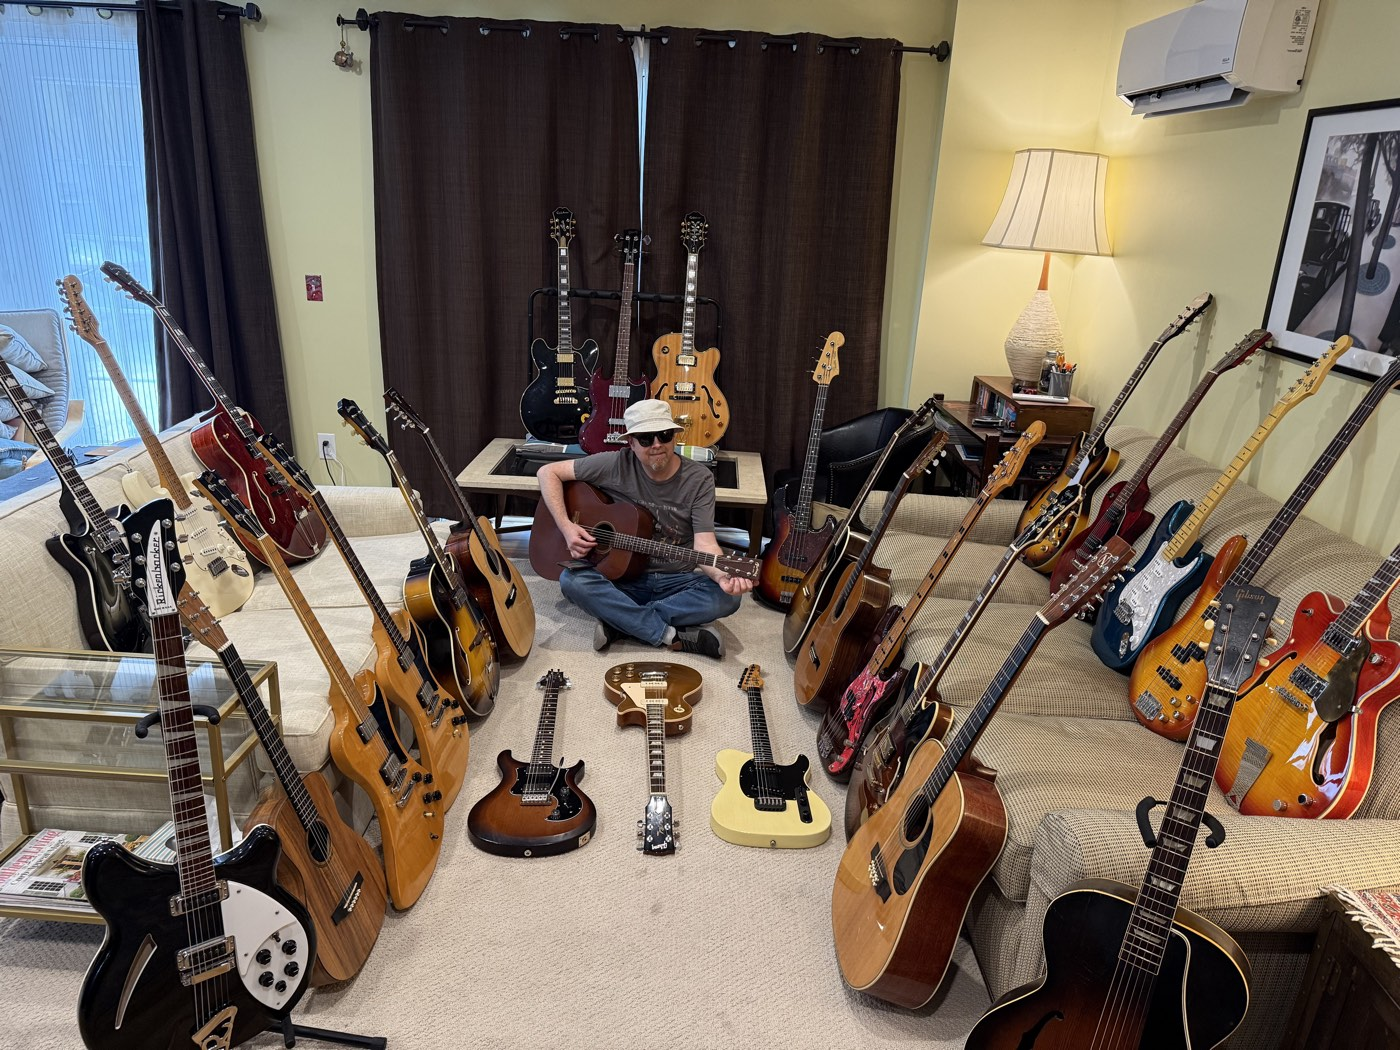
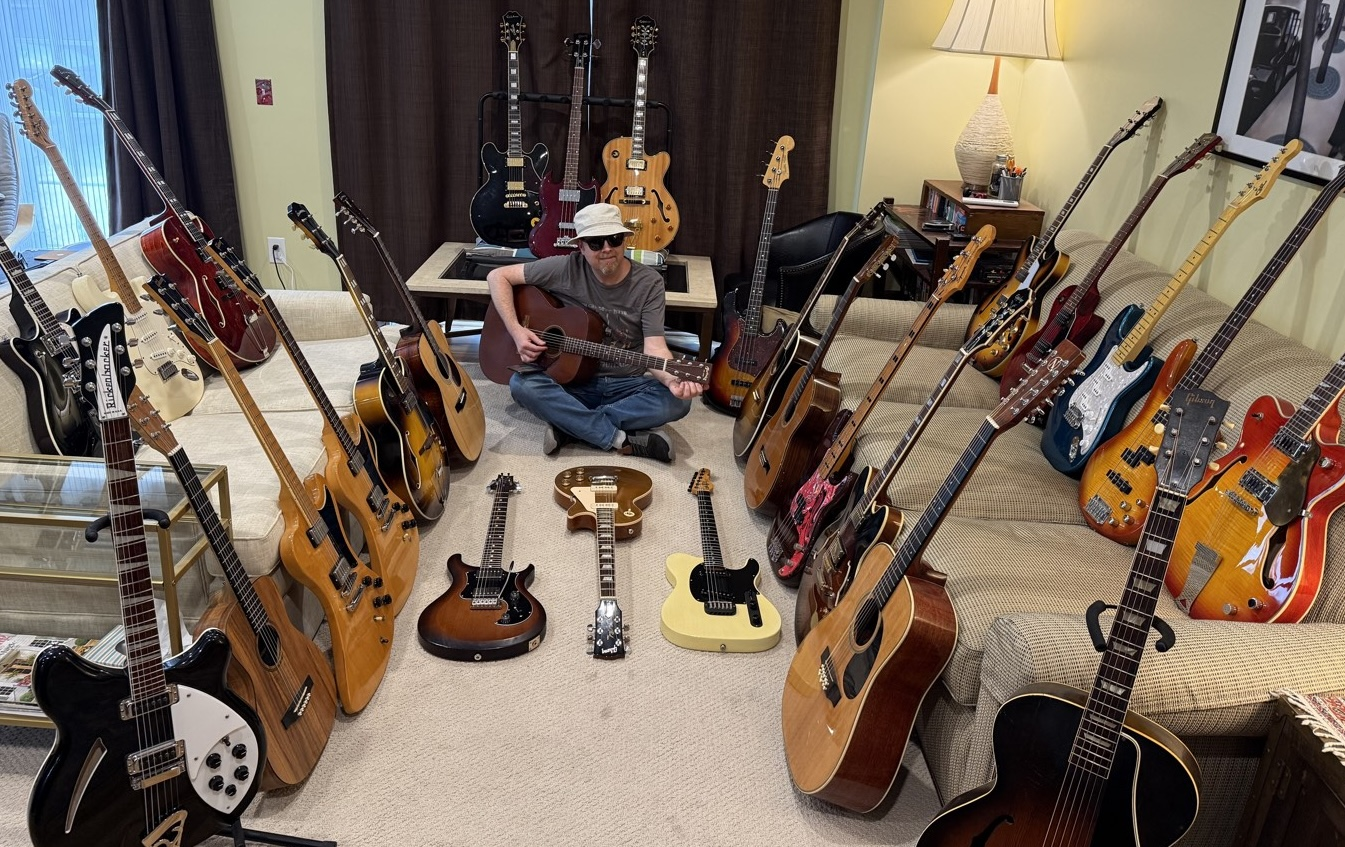
Refresh notes page copy, add gift CTA section
- Rewrite envelope item descriptions (letter, instrument card, playlist) and step 3 of "How it works"
- Add new gift CTA section between testimonials and How it works with olive button
- Remove all "Give a gift subscription" text links (hero + both pricing tiers); drop orphan tooltip/link CSS
- Testimonial carousel: remove "From families" subheader, header now "Hear from the community."
- Update page title and meta description for SEO
- Add "First letters go out July 1." tagline under Become a Founding Member
- Swap envelope image to cropped version, delete orphan LaunchBanner.tsx

diff --git a/app/notes/page.tsx b/app/notes/page.tsx
@@ -1,12 +1,13 @@
 import Link from "next/link";
 import Script from "next/script";
 import type { Metadata } from "next";
-import { LaunchBanner, LaunchCtaSubtext } from "./LaunchBanner";
 import { TestimonialCarousel } from "./TestimonialCarousel";
 
 
 export const metadata: Metadata = {
-  title: "Notes from Mr. David",
+  title: "Notes from Mr. David | Monthly Musical Snail Mail Club",
+  description:
+    "A monthly musical snail mail club for kids and families. Stories, a collectible instrument card, and a curated playlist from Mr. David.",
 };
 
 export default function Notes() {
@@ -95,7 +96,7 @@ export default function Notes() {
 
         .hero {
           position: relative;
-          background-color: var(--brown);
+          background-color: #1C0F0C;
           min-height: 520px;
           padding: 64px 56px;
           display: grid;
@@ -108,17 +109,31 @@ export default function Notes() {
 
         .hero-photo {
           position: absolute;
-          inset: 0;
-          width: 100%;
+          top: 0;
+          right: 0;
+          width: 55%;
           height: 100%;
           object-fit: cover;
           object-position: center top;
         }
 
+        @media (max-width: 900px) {
+          .hero-photo {
+            width: 65%;
+          }
+        }
+
+        @media (max-width: 600px) {
+          .hero-photo {
+            width: 100%;
+            opacity: 0.35;
+          }
+        }
+
         .hero-overlay {
           position: absolute;
           inset: 0;
-          background: linear-gradient(to right, rgba(20,10,5,0.92) 0%, rgba(20,10,5,0.85) 40%, rgba(20,10,5,0.30) 65%, rgba(20,10,5,0.05) 100%);
+          background: linear-gradient(to right, #1C0F0C 0%, #1C0F0C 44%, rgba(28,15,12,0) 67%);
         }
 
         .hero-center {
@@ -172,83 +187,6 @@ export default function Notes() {
 
         .btn-primary:hover { background-color: #a04e2c; }
 
-        .gift-link {
-          display: inline-block;
-          margin-top: 14px;
-          font-size: 13px;
-          color: rgba(250, 243, 232, 0.65);
-          text-decoration: none;
-          border-bottom: 1px solid rgba(250, 243, 232, 0.25);
-          transition: color 0.2s, border-color 0.2s;
-          align-self: flex-start;
-        }
-
-        .gift-link:hover {
-          color: var(--dusty-gold);
-          border-bottom-color: var(--dusty-gold);
-        }
-
-        .gift-link-olive {
-          display: inline-block;
-          margin-top: 14px;
-          font-size: 13px;
-          color: #A8B888;
-          text-decoration: none;
-          border-bottom: 1px solid rgba(168, 184, 136, 0.4);
-          transition: color 0.2s, border-color 0.2s;
-        }
-
-        .gift-link-olive:hover {
-          color: var(--parchment);
-          border-bottom-color: var(--parchment);
-        }
-
-        .tooltip-wrap {
-          position: relative;
-          display: inline-block;
-          margin-left: 5px;
-          cursor: default;
-          font-size: 11px;
-          color: rgba(168, 184, 136, 0.7);
-          vertical-align: middle;
-        }
-
-        .tooltip-wrap .tooltip-text {
-          visibility: hidden;
-          opacity: 0;
-          background-color: var(--brown);
-          color: var(--parchment);
-          font-size: 12px;
-          font-style: normal;
-          line-height: 1.5;
-          text-align: center;
-          padding: 8px 12px;
-          border-radius: 4px;
-          width: 220px;
-          position: absolute;
-          bottom: 130%;
-          left: 50%;
-          transform: translateX(-50%);
-          transition: opacity 0.2s;
-          pointer-events: none;
-          z-index: 10;
-        }
-
-        .tooltip-wrap .tooltip-text::after {
-          content: '';
-          position: absolute;
-          top: 100%;
-          left: 50%;
-          transform: translateX(-50%);
-          border: 5px solid transparent;
-          border-top-color: var(--brown);
-        }
-
-        .tooltip-wrap:hover .tooltip-text {
-          visibility: visible;
-          opacity: 1;
-        }
-
         section { padding: 72px 56px; }
 
         .section-label {
@@ -275,10 +213,24 @@ export default function Notes() {
 
         .inside { background-color: var(--parchment); }
 
-        .inside-grid {
+        .inside-layout {
           display: grid;
-          grid-template-columns: 1fr 1fr 1fr;
-          gap: 48px;
+          grid-template-columns: 1fr 1fr;
+          gap: 72px;
+          align-items: center;
+        }
+
+        .inside-grid {
+          display: flex;
+          flex-direction: column;
+          gap: 40px;
+        }
+
+        .inside-img {
+          width: 100%;
+          height: auto;
+          border-radius: 4px;
+          box-shadow: 0 8px 32px rgba(62,39,35,0.12);
         }
 
         .inside-number {
@@ -426,12 +378,53 @@ export default function Notes() {
           outline-offset: 3px;
         }
 
+        .gift-cta {
+          background-color: var(--light-tan);
+          text-align: center;
+        }
+
+        .gift-cta-inner {
+          max-width: 720px;
+          margin: 0 auto;
+        }
+
+        .gift-cta .section-title {
+          color: var(--brown);
+          margin-bottom: 24px;
+        }
+
+        .gift-cta-sub {
+          font-size: 17px;
+          line-height: 1.8;
+          color: var(--brown);
+          opacity: 0.8;
+          margin-bottom: 36px;
+        }
+
+        .btn-gift {
+          display: inline-block;
+          background-color: var(--olive);
+          color: #fff;
+          font-family: 'Libre Baskerville', serif;
+          font-size: 15px;
+          font-weight: 700;
+          padding: 16px 44px;
+          border: none;
+          cursor: pointer;
+          letter-spacing: 0.06em;
+          text-decoration: none;
+          transition: background-color 0.2s;
+        }
+
+        .btn-gift:hover { background-color: #3F471F; }
+
         .how { background-color: var(--parchment-dark); }
 
         .steps {
           display: grid;
           grid-template-columns: 1fr 1fr 1fr;
           gap: 48px;
+          align-items: start;
         }
 
         .step-number { display: none; }
@@ -512,6 +505,13 @@ export default function Notes() {
         }
 
         .final-cta .section-title { color: var(--parchment); margin-bottom: 16px; }
+
+        .final-cta-tagline {
+          font-size: 18px;
+          color: var(--parchment);
+          margin-bottom: 44px;
+          line-height: 1.6;
+        }
 
         .final-cta-sub {
           font-size: 17px;
@@ -737,6 +737,8 @@ export default function Notes() {
 
           .hero-center {
             max-width: 100%;
+            position: relative;
+            z-index: 3;
           }
 
           .hero-lede {
@@ -778,9 +780,13 @@ export default function Notes() {
             margin-bottom: 32px;
           }
 
-          .inside-grid {
+          .inside-layout {
             grid-template-columns: 1fr;
-            gap: 36px;
+            gap: 40px;
+          }
+
+          .inside-grid {
+            gap: 32px;
           }
 
           .inside-number {
@@ -854,36 +860,47 @@ export default function Notes() {
             <span style={{color: '#C8842A'}}>light up about music.</span>
           </p>
           <p className="hero-lede hero-lede-sub">
-            <span style={{color: '#fff'}}>No pressure. No practice charts. Just a letter, a collectible instrument card, and a playlist from a teacher who has spent 30 years making music irresistible to kids.</span>
+            <span style={{color: '#fff'}}>No pressure or practice charts. Just a letter, a collectible instrument card, and a playlist from a teacher who has spent 30 years making music irresistible to kids.</span>
           </p>
           <a href="#waitlist-section" className="btn-primary">Become a Founding Member</a>
-          <a href="https://mrdavidmusic.memberful.com/gift?plan=147377" target="_blank" rel="noopener noreferrer" className="gift-link">Give a gift subscription &rarr;</a>
         </div>
       </section>
 
       <section className="inside">
         <div className="section-label">Every month</div>
         <h2 className="section-title">What&apos;s in the envelope</h2>
-        <div className="inside-grid">
-          <div className="inside-item">
-            <div className="inside-number">01</div>
-            <h3 className="inside-item-title">A letter from David</h3>
-            <p className="inside-item-desc">As a lifelong music enthusiast and teacher, David has been collecting and sharing the musical stories associated with instruments, artists, albums, genres, history, and culture for decades. His monthly letter weaves these stories together around a theme to deliver content that is both informative and entertaining.</p>
+        <div className="inside-layout">
+          <div className="inside-grid">
+            <div className="inside-item">
+              <div className="inside-number">01</div>
+              <h3 className="inside-item-title">A letter from David</h3>
+              <p className="inside-item-desc">David&apos;s first letter is a welcome to the club. He&apos;ll introduce you to the five instrument families and link you to the first playlist featuring beautiful examples of music from each family.</p>
+            </div>
+            <div className="inside-item">
+              <div className="inside-number">02</div>
+              <h3 className="inside-item-title">A collectible instrument card</h3>
+              <p className="inside-item-desc">Each card features an instrument from David&apos;s personal collection, with facts on the back and a hidden secret: somewhere on every card, a Beatles figurine is tucked near the instrument. Each Beatle represents one of the five instrument families. Collect them all and watch out for the Blue Meanie.</p>
+            </div>
+            <div className="inside-item">
+              <div className="inside-number">03</div>
+              <h3 className="inside-item-title">A curated playlist</h3>
+              <p className="inside-item-desc">Back in the day, David made mixtapes for his friends. Now he does it for the club. Each month he assembles a YouTube playlist around the letter&apos;s theme, then records a short intro video where he walks you through each song, what he loves about it, and what to listen for.</p>
+            </div>
           </div>
-          <div className="inside-item">
-            <div className="inside-number">02</div>
-            <h3 className="inside-item-title">A collectible instrument card</h3>
-            <p className="inside-item-desc">Over the years, David has collected well over 200 musical instruments, and now he wants to share his instruments with you! Included in the letter is a collectible card featuring an instrument from his collection. Can he play them all, you wonder? Well he sure thinks it&apos;s fun to try!</p>
-          </div>
-          <div className="inside-item">
-            <div className="inside-number">03</div>
-            <h3 className="inside-item-title">A curated playlist</h3>
-            <p className="inside-item-desc">One of David&apos;s favorite things is getting to introduce his students to music they haven&apos;t heard before. Back in the day, he made mixtapes for his friends. Now David does this for his snail mail club, using YouTube to assemble a monthly playlist of songs and performances related to the theme. And he starts it off with a video introduction about what he included and why he thinks it&apos;s great.</p>
-          </div>
+          {/* eslint-disable-next-line @next/next/no-img-element */}
+          <img className="inside-img" src="/envelope-contents-cropped.jpg" alt="A letter, instrument card, and other contents from a Notes from Mr. David envelope" />
         </div>
       </section>
 
       <TestimonialCarousel />
+
+      <section className="gift-cta">
+        <div className="gift-cta-inner">
+          <h2 className="section-title">Know a kid who loves music?</h2>
+          <p className="gift-cta-sub">Give them the gift they&apos;ll look forward to every month. An entertaining letter in the mailbox, a collectible instrument card, and a playlist full of amazing music that they probably haven&apos;t heard before. No batteries, no screen time, no assembly required.</p>
+          <a href="https://mrdavidmusic.memberful.com/gift?plan=147377" target="_blank" rel="noopener noreferrer" className="btn-gift">Give a gift subscription</a>
+        </div>
+      </section>
 
       <section className="how">
         <div className="section-label">Getting started</div>
@@ -902,7 +919,7 @@ export default function Notes() {
           <div className="step">
             <div className="step-number">3</div>
             <h3 className="step-title">Check your mailbox!</h3>
-            <p className="step-desc">David will be sending out a new set of stories along with his playlist and instrument card on the first of every month. Go find your comfortable chair, open your letter, and enjoy a lovingly curated set of musical knowledge that will inspire and delight.</p>
+            <p className="step-desc">Open the envelope and you&apos;ll find a letter full of music stories: featured artists, instruments, albums, and history woven around a monthly theme. Scan the playlist card to start the music while you read. And add the instrument card to your growing collection.</p>
           </div>
         </div>
       </section>
@@ -942,24 +959,26 @@ export default function Notes() {
             <svg width="16" height="16" viewBox="0 0 24 24" fill="currentColor"><path d="M24 12.073c0-6.627-5.373-12-12-12s-12 5.373-12 12c0 5.99 4.388 10.954 10.125 11.854v-8.385H7.078v-3.47h3.047V9.43c0-3.007 1.792-4.669 4.533-4.669 1.312 0 2.686.235 2.686.235v2.953H15.83c-1.491 0-1.956.925-1.956 1.874v2.25h3.328l-.532 3.47h-2.796v8.385C19.612 23.027 24 18.062 24 12.073z"/></svg>
             Notes from Mr. David
           </a>
+          <a href="https://youtube.com/playlist?list=PL2w1TmHDI_Ptbwm5DLzPp96ts9Ek1pJbp&si=_g3kqLFDC5QdUSwW" target="_blank" rel="noopener noreferrer" className="social-follow-btn">
+            <svg width="16" height="16" viewBox="0 0 24 24" fill="currentColor"><path d="M23.498 6.186a3.016 3.016 0 00-2.122-2.136C19.505 3.545 12 3.545 12 3.545s-7.505 0-9.377.505A3.017 3.017 0 00.502 6.186C0 8.07 0 12 0 12s0 3.93.502 5.814a3.016 3.016 0 002.122 2.136c1.871.505 9.376.505 9.376.505s7.505 0 9.377-.505a3.015 3.015 0 002.122-2.136C24 15.93 24 12 24 12s0-3.93-.502-5.814zM9.545 15.568V8.432L15.818 12l-6.273 3.568z"/></svg>
+            Watch the playlist
+          </a>
         </div>
       </section>
 
       <section className="final-cta" id="waitlist-section">
         <div className="section-title">Become a Founding Member</div>
-        <LaunchCtaSubtext />
+        <p className="final-cta-tagline">First letters go out July 1.</p>
         <div style={{display: 'flex', flexDirection: 'row', justifyContent: 'center', gap: '48px', flexWrap: 'wrap', marginTop: '8px'}}>
           <div style={{display: 'flex', flexDirection: 'column', alignItems: 'center', gap: '12px'}}>
             <p style={{fontSize: '13px', fontWeight: 600, letterSpacing: '0.08em', textTransform: 'uppercase', opacity: 0.7, margin: 0}}>US / Domestic</p>
             <p style={{fontSize: '32px', fontWeight: 700, margin: 0}}>$12<span style={{fontSize: '16px', fontWeight: 400}}>/month</span></p>
             <a href="https://mrdavidmusic.memberful.com/checkout?plan=147377&return_url=https%3A%2F%2Fmrdavidmusic.com%2Fnotes" target="_blank" rel="noopener noreferrer" className="btn-waitlist">Become a Founding Member</a>
-            <span style={{display: 'inline-flex', alignItems: 'center', gap: '4px'}}><a href="https://mrdavidmusic.memberful.com/gift?plan=147377" target="_blank" rel="noopener noreferrer" className="gift-link-olive">Give a gift subscription &rarr;</a><span className="tooltip-wrap">ⓘ<span className="tooltip-text">The delivery date is when your recipient gets their gift email, not when physical mailings begin.</span></span></span>
           </div>
           <div style={{display: 'flex', flexDirection: 'column', alignItems: 'center', gap: '12px'}}>
             <p style={{fontSize: '13px', fontWeight: 600, letterSpacing: '0.08em', textTransform: 'uppercase', opacity: 0.7, margin: 0}}>International</p>
             <p style={{fontSize: '32px', fontWeight: 700, margin: 0}}>$14<span style={{fontSize: '16px', fontWeight: 400}}>/month</span></p>
             <a href="https://mrdavidmusic.memberful.com/checkout?plan=147590&return_url=https%3A%2F%2Fmrdavidmusic.com%2Fnotes" target="_blank" rel="noopener noreferrer" className="btn-waitlist">Become a Founding Member</a>
-            <span style={{display: 'inline-flex', alignItems: 'center', gap: '4px'}}><a href="https://mrdavidmusic.memberful.com/gift?plan=147590" target="_blank" rel="noopener noreferrer" className="gift-link-olive">Give a gift subscription &rarr;</a><span className="tooltip-wrap">ⓘ<span className="tooltip-text">The delivery date is when your recipient gets their gift email, not when physical mailings begin.</span></span></span>
           </div>
         </div>
       </section>

diff --git a/app/notes/TestimonialCarousel.tsx b/app/notes/TestimonialCarousel.tsx
@@ -58,8 +58,7 @@ export function TestimonialCarousel() {
       onMouseEnter={() => setPaused(true)}
       onMouseLeave={() => setPaused(false)}
     >
-      <div className="section-label">From families</div>
-      <h2 className="section-title">What students &amp; parents say</h2>
+      <h2 className="section-title">Hear from the community.</h2>
       <div className="testimonial-carousel">
         <button
           type="button"
